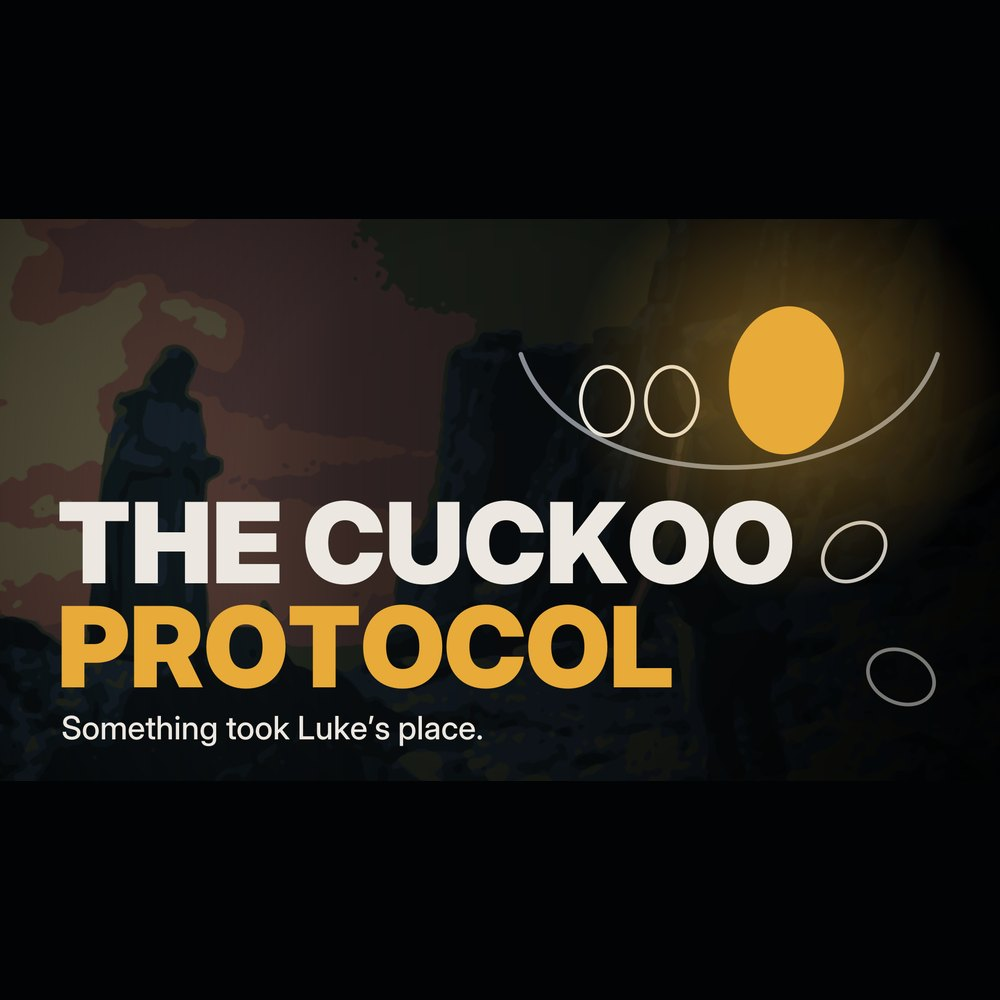
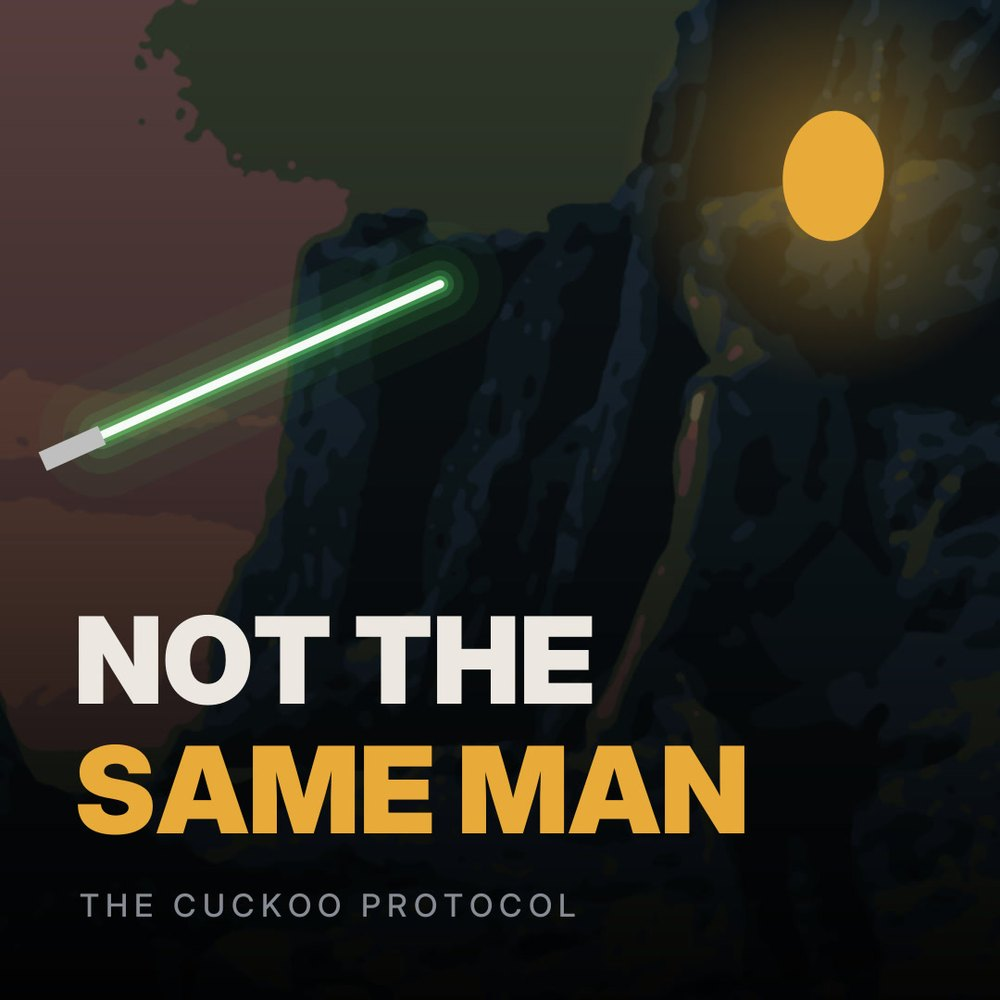
updated thumbnail

diff --git a/index.html b/index.html
@@ -93,7 +93,7 @@ footer{margin-top:clamp(3.5rem,7vw,5.5rem);padding:1.5rem 0 3.5rem;border-top:1p
 
       <a class="tile" href="/cuckoo-protocol/">
         <div class="media">
-          <img src="/img/cuckoo-protocol.jpg" width="1000" height="1000" alt="Title card for The Cuckoo Protocol: a gold egg in a nest beside two pale ones, over a stylized cliff with a robed figure.">
+          <img src="/img/cuckoo-protocol.jpg" width="1000" height="1000" alt="The Cuckoo Protocol: a green lightsaber and a gold egg over a dark stylized cliff, with the words Not the same man.">
         </div>
         <p class="eyebrow">Video essay · Star Wars</p>
         <h2>The Cuckoo Protocol</h2>
